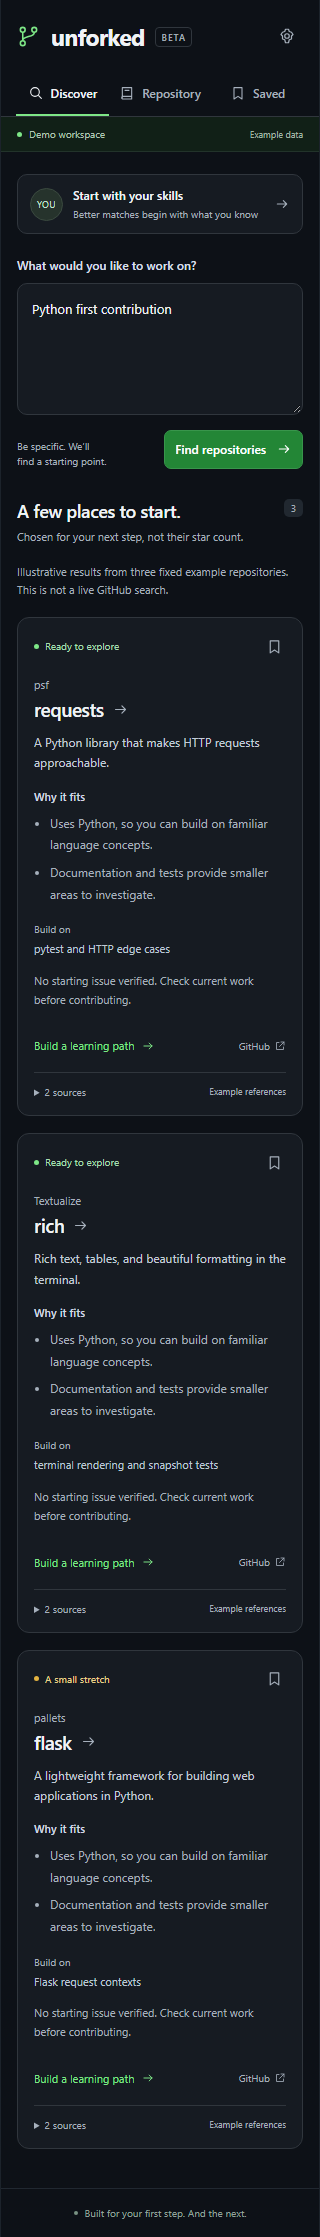
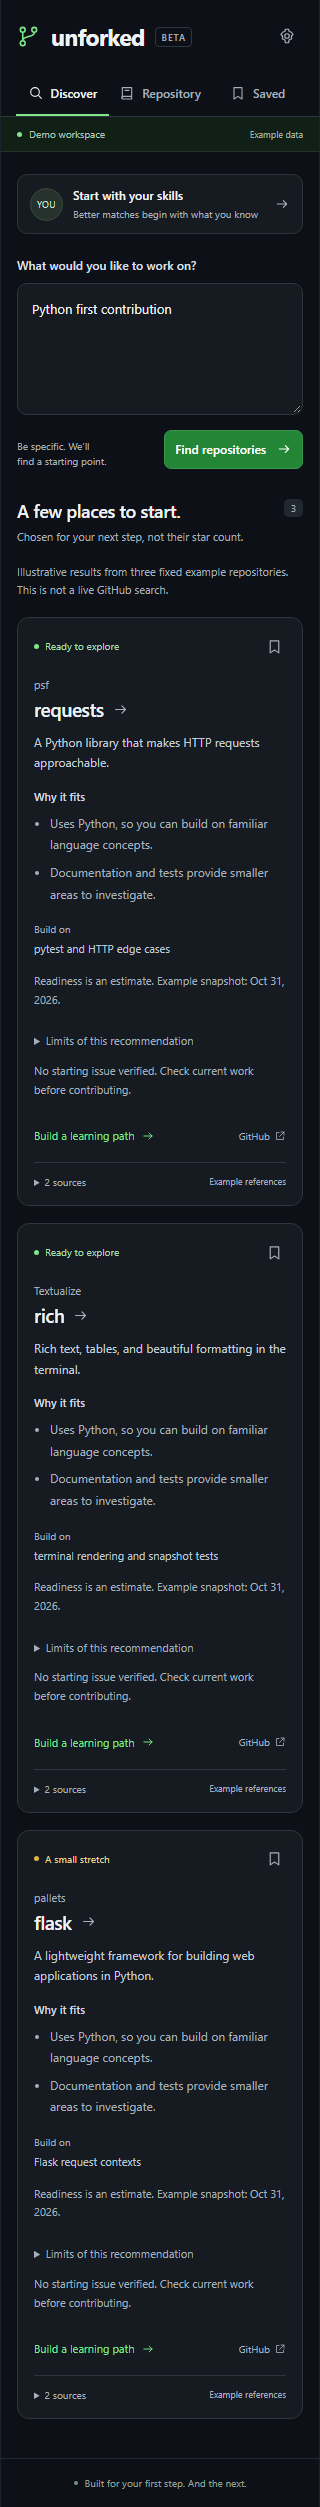
fix: preserve repository context and recheck actionable issues

diff --git a/apps/extension/entrypoints/sidepanel/App.tsx b/apps/extension/entrypoints/sidepanel/App.tsx
@@ -1,9 +1,10 @@
 import { useEffect, useRef, useState } from 'react';
-import { defaultProfile, parseRepoRef, RepoRefSchema, repoKey, repoUrl, type ContributorProfile, type Match, type RepoRef, type Source, type ApiResponse, type Summary, type SearchResult, type LearningPath, type RepoAnswer } from '@unforked/contracts';
+import { defaultProfile, parseRepoRef, repoKey, repoUrl, type ContributorProfile, type Match, type RepoRef, type Source, type ApiResponse, type Summary, type SearchResult, type LearningPath, type RepoAnswer, type IssueCheck } from '@unforked/contracts';
 import { localStore, type SavedMatch } from '../../lib/storage';
 import { RequestGate } from '../../lib/request-state';
 import { apiOrigin, callApi, ApiError } from '../../lib/api-client';
 import { signIn, signOut } from '../../lib/auth';
+import { createSelectionConsumer } from '../../lib/selection-context';
 
 type View = 'discover' | 'repository' | 'saved' | 'profile' | 'settings';
 type IconName = 'branch' | 'search' | 'repo' | 'bookmark' | 'settings' | 'arrow' | 'circle' | 'back' | 'close' | 'check' | 'external';
@@ -21,13 +22,17 @@ function Sources({ sources, ids, demo }: { sources: Source[]; ids?: string[]; de
   return <details className="sources"><summary>{selected.length} source{selected.length === 1 ? '' : 's'} <span>{demo ? 'Example references' : 'Checked on GitHub'}</span></summary><ul>{selected.map(s => <li key={s.id}><a href={s.url} target="_blank" rel="noreferrer">{s.label}<Icon name="external" size={12}/></a></li>)}</ul></details>;
 }
 const readyLabels = { ready_now: 'Ready to explore', small_stretch: 'A small stretch', learn_first: 'Learn first' };
-function RepoCard({ card, saved, sources, demo, onSave, onLearn, onExplain }: { card: Match; saved: boolean; sources: Source[]; demo: boolean; onSave: () => void; onLearn: () => void; onExplain: () => void }) {
+function RepoCard({ card, saved, sources, demo, onSave, onLearn, onExplain, onCheckIssue, issueCheck }: { card: Match; saved: boolean; sources: Source[]; demo: boolean; onSave: () => void; onLearn: () => void; onExplain: () => void; onCheckIssue: () => void; issueCheck: IssueCheck | null }) {
+  const checked = issueCheck && repoKey(issueCheck.repo) === repoKey(card.repo) && issueCheck.issueNumber === card.issueNumber ? issueCheck : null;
+  const date = Number.isFinite(Date.parse(card.checkedAt)) ? new Date(card.checkedAt).toLocaleDateString(undefined, { year: 'numeric', month: 'short', day: 'numeric' }) : 'date unavailable';
   return <article className="repo-card">
     <div className="card-top"><span className={`readiness ${card.readiness}`}><span className="dot"/>{readyLabels[card.readiness]}</span><button className={`icon-button ${saved ? 'is-saved' : ''}`} aria-label={`${saved ? 'Remove' : 'Save'} ${repoKey(card.repo)}`} title={saved ? 'Remove from saved' : 'Save repository'} onClick={onSave}><Icon name={saved ? 'check' : 'bookmark'} size={17}/></button></div>
     <p className="owner">{card.repo.owner}</p><h3><button className="title-button" onClick={onExplain}>{card.repo.name}<Icon name="arrow" size={17}/></button></h3><p className="description">{card.purpose}</p>
     <div className="fit"><h4>Why it fits</h4><ul>{card.fitReasons.map((reason, i) => <li key={i}>{reason}</li>)}</ul></div>
     {!!card.skillGaps.length && <p className="gap"><span>Build on</span> {card.skillGaps.join(' · ')}</p>}
-    {card.issueNumber ? <a className="issue-link" href={`${repoUrl(card.repo)}/issues/${card.issueNumber}`} target="_blank" rel="noreferrer">Explore issue #{card.issueNumber}<Icon name="external" size={13}/></a> : <p className="quiet-note">No starting issue verified. Check current work before contributing.</p>}
+    <p className="quiet-note">Readiness is an estimate. {demo ? 'Example snapshot' : 'Checked'}: {date}.</p>
+    {!!card.limitations.length && <details className="limitations"><summary>Limits of this recommendation</summary><ul>{card.limitations.map((limit, i) => <li key={i}>{limit}</li>)}</ul></details>}
+    {card.issueNumber ? <div className="issue-check"><button className="text-button" onClick={onCheckIssue}>Check issue #{card.issueNumber}<Icon name="arrow" size={13}/></button>{checked && <><p className="quiet-note">{checked.reasons.join(' ')} Checked {new Date(checked.checkedAt).toLocaleTimeString()}.</p>{checked.available && <a className="issue-link" href={`${repoUrl(card.repo)}/issues/${card.issueNumber}`} target="_blank" rel="noreferrer">Open issue #{card.issueNumber}<Icon name="external" size={13}/></a>}</>}</div> : <p className="quiet-note">No starting issue verified. Check current work before contributing.</p>}
     <div className="card-actions"><button className="text-button" onClick={onLearn} aria-label={`Learning path for ${repoKey(card.repo)}`}>Build a learning path<Icon name="arrow" size={14}/></button><a href={repoUrl(card.repo)} target="_blank" rel="noreferrer" className="subtle-link">GitHub<Icon name="external" size={12}/></a></div>
     <Sources sources={sources} ids={card.sourceIds} demo={demo}/>
   </article>;
@@ -45,13 +50,16 @@ function ProfileEditor({ profile, onSave, onCancel }: { profile: ContributorProf
   </form></section>;
 }
 export default function App() {
-  const [view, setView] = useState<View>('discover'); const viewRef = useRef(view); viewRef.current = view;
+  const [view, setView] = useState<View>('discover');
   const [profile, setProfile] = useState<ContributorProfile>(defaultProfile); const [saved, setSaved] = useState<SavedMatch[]>([]); const [query, setQuery] = useState(''); const [repoInput, setRepoInput] = useState(''); const [currentRepo, setCurrentRepo] = useState<RepoRef | null>(null);
   const [health, setHealth] = useState<'checking' | 'demo' | 'live' | 'offline'>('checking'); const [busy, setBusy] = useState<string | null>(null); const [error, setError] = useState<{ message: string; code?: string; retry?: number } | null>(null);
   const [search, setSearch] = useState<ApiResponse<SearchResult> | null>(null); const [summary, setSummary] = useState<ApiResponse<Summary> | null>(null); const [learning, setLearning] = useState<ApiResponse<LearningPath> | null>(null); const [answer, setAnswer] = useState<ApiResponse<RepoAnswer> | null>(null); const [question, setQuestion] = useState(''); const [notice, setNotice] = useState('');
+  const [issueCheck, setIssueCheck] = useState<IssueCheck | null>(null);
+  const activeAction = useRef('');
+  const selectionConsumer = useRef<ReturnType<typeof createSelectionConsumer> | null>(null);
   const gate = useRef(new RequestGate()); const lastAction = useRef<(() => void) | null>(null);
   const changeView = (next: View) => { gate.current.cancel(); setBusy(null); setError(null); setView(next); };
-  const clearRepoOutput = () => { gate.current.cancel(); setBusy(null); setSummary(null); setLearning(null); setAnswer(null); setQuestion(''); };
+  const clearRepoOutput = (cancelRequest = true) => { if (cancelRequest) { gate.current.cancel(); setBusy(null); } setSummary(null); setLearning(null); setAnswer(null); setQuestion(''); };
   const activateRepo = (repo: RepoRef) => { clearRepoOutput(); setCurrentRepo(repo); setRepoInput(repoKey(repo)); setView('repository'); setError(null); };
   useEffect(() => {
     void localStore.loadProfile().then(p => { if (p) setProfile(p); }).catch(() => setNotice('Profile could not be loaded. You can create a new one.'));
@@ -62,22 +70,34 @@ export default function App() {
   }, []);
   useEffect(() => {
     if (!globalThis.chrome?.tabs) return;
-    const context = async () => { const [tab] = await chrome.tabs.query({ active: true, currentWindow: true }); const repo = parseRepoRef(tab?.url || ''); setCurrentRepo(repo); if (viewRef.current === 'repository') { clearRepoOutput(); setRepoInput(repo ? repoKey(repo) : ''); } };
-    void context();
-    const onChanged = (changes: Record<string, chrome.storage.StorageChange>, area: string) => { if (area === 'session' && changes.selectionNonce) { void chrome.storage.session.get(['selectedRepo', 'selectedTab']).then(async data => { const [tab] = await chrome.tabs.query({ active: true, currentWindow: true }); const repo = RepoRefSchema.safeParse(data.selectedRepo); if (repo.success && tab?.id === data.selectedTab) explain(repo.data); }); } };
-    const onMessage = (message: any, sender: chrome.runtime.MessageSender) => { if (sender.id === chrome.runtime.id && message.type === 'UNFORKED_NAVIGATED') void context(); };
-    chrome.storage.onChanged.addListener(onChanged); chrome.tabs.onActivated.addListener(context); chrome.runtime.onMessage.addListener(onMessage);
-    void chrome.storage.session.get(['selectedRepo', 'selectedTab']).then(async data => { const [tab] = await chrome.tabs.query({ active: true, currentWindow: true }); const repo = RepoRefSchema.safeParse(data.selectedRepo); if (repo.success && tab?.id === data.selectedTab) explain(repo.data); });
-    return () => { chrome.storage.onChanged.removeListener(onChanged); chrome.tabs.onActivated.removeListener(context); chrome.runtime.onMessage.removeListener(onMessage); };
+    selectionConsumer.current ??= createSelectionConsumer({ get: keys => chrome.storage.session.get(keys), remove: keys => chrome.storage.session.remove(keys) });
+    let sequence = 0; let disposed = false; let previousContext = ''; let events = Promise.resolve();
+    const context = (updatedTab?: number, consume = false, force = false) => {
+      const event = ++sequence;
+      events = events.then(async () => {
+        const [tab] = await chrome.tabs.query({ active: true, currentWindow: true });
+        if (disposed || !tab || updatedTab !== undefined && tab.id !== updatedTab) return;
+        const identity = `${tab.id}:${tab.url || ''}`;
+        if (identity !== previousContext || force) { previousContext = identity; clearRepoOutput(activeAction.current !== 'search'); const repo = parseRepoRef(tab.url || ''); setCurrentRepo(repo); setRepoInput(repo ? repoKey(repo) : ''); }
+        if (consume) { const repo = await selectionConsumer.current!(tab); if (repo && !disposed && event === sequence) explain(repo); }
+      }).catch(() => {});
+    };
+    context(undefined, true);
+    const onChanged = (changes: Record<string, chrome.storage.StorageChange>, area: string) => { if (area === 'session' && changes.selectionNonce?.newValue) context(undefined, true); };
+    const onMessage = (message: any, sender: chrome.runtime.MessageSender) => { if (sender.id === chrome.runtime.id && message.type === 'UNFORKED_NAVIGATED') context(sender.tab?.id); };
+    const onActivated = () => context();
+    const onUpdated: Parameters<typeof chrome.tabs.onUpdated.addListener>[0] = (id, change) => { if (change.url || change.status === 'loading' || change.status === 'complete') context(id, false, change.status === 'loading'); };
+    chrome.storage.onChanged.addListener(onChanged); chrome.tabs.onActivated.addListener(onActivated); chrome.tabs.onUpdated.addListener(onUpdated); chrome.runtime.onMessage.addListener(onMessage);
+    return () => { disposed = true; chrome.storage.onChanged.removeListener(onChanged); chrome.tabs.onActivated.removeListener(onActivated); chrome.tabs.onUpdated.removeListener(onUpdated); chrome.runtime.onMessage.removeListener(onMessage); };
   }, []);
   async function run(action: string, payload: Record<string, unknown>) {
-    const token = gate.current.start(); setError(null); setBusy(action === 'search' ? 'Finding and checking repositories…' : action === 'learning-path' ? 'Connecting the next steps…' : action === 'repo-question' ? 'Reading the available evidence…' : 'Reading this repository…');
+    const token = gate.current.start(); activeAction.current = action; setError(null); setBusy(action === 'search' ? 'Finding and checking repositories…' : action === 'learning-path' ? 'Connecting the next steps…' : action === 'repo-question' ? 'Reading the available evidence…' : action === 'issue-check' ? 'Checking current issue availability…' : 'Reading this repository…');
     lastAction.current = () => void run(action, payload);
     try {
       const response = await callApi(action, { ...payload, requestId: token.id }, token.signal);
       if (!gate.current.isCurrent(token.id)) return;
       setHealth(response.demo ? 'demo' : 'live');
-      if (action === 'search') setSearch(response); else if (action === 'summary') setSummary(response); else if (action === 'learning-path') setLearning(response); else setAnswer(response);
+      if (action === 'search') { setSearch(response); setIssueCheck(null); } else if (action === 'summary') setSummary(response); else if (action === 'learning-path') setLearning(response); else if (action === 'issue-check') setIssueCheck(response.data); else setAnswer(response);
     } catch (e) { if (gate.current.isCurrent(token.id)) setError({ message: e instanceof Error ? e.message : 'The action could not finish.', code: e instanceof ApiError ? e.code : undefined, retry: e instanceof ApiError ? e.retryAfterSeconds : undefined }); }
     finally { if (gate.current.isCurrent(token.id)) setBusy(null); }
   }
@@ -102,14 +122,14 @@ export default function App() {
         <button className="profile-strip" onClick={() => changeView('profile')} aria-label="Your skills"><span><span className="profile-avatar">{profile.languages.length ? profile.languages[0].slice(0, 2).toUpperCase() : 'YOU'}</span><span><strong>{profile.languages.length ? profile.languages.join(' · ') : 'Start with your skills'}</strong><small>{profile.languages.length ? `${profile.availableHours} hours available · Edit your profile` : 'Better matches begin with what you know'}</small></span></span><Icon name="arrow" size={16}/></button>
         <form className="composer" onSubmit={e => { e.preventDefault(); if (query.trim()) void run('search', { request: query, profile }); }}><label htmlFor="goal">What would you like to work on?</label><textarea id="goal" aria-label="Contribution goal" rows={4} maxLength={2000} value={query} onChange={e => setQuery(e.target.value)} placeholder="I know Python and basic Git. I’d like a small developer-tools project where I can make my first contribution."/><div className="composer-bottom"><span>Be specific. We’ll find a starting point.</span><button type="submit" className="primary" disabled={!query.trim() || !!busy} aria-label="Find repositories">Find repositories<Icon name="arrow" size={16}/></button></div></form>
         {!search && <div className="examples"><p>Or start with an idea</p>{[{ label: 'My first Python contribution', text: 'I know Python functions, classes, and basic Git. Find my first contribution in a developer-tools project.' }, { label: 'A project for this weekend', text: 'I have four hours this weekend. Find a small contribution using my current skills.' }, { label: 'Learn by contributing', text: 'Find a project close to my current skills and give me a learning path for a useful contribution.' }].map(example => <button key={example.label} onClick={() => setQuery(example.text)}>{example.label}<Icon name="arrow" size={14}/></button>)}</div>}
-        {search && <section className="results"><div className="section-heading"><div><h2>{search.data.status === 'no_strong_match' ? 'A nearby place to begin.' : 'A few places to start.'}</h2><p>{search.data.status === 'no_strong_match' ? 'No strong match was found in this search. Consider these alternatives or refine your goal.' : 'Chosen for your next step, not their star count.'}</p></div><span className="count">{search.data.matches.length}</span></div>{search.data.searchLimitations.map((l, i) => <p className="quiet-note" key={i}>{l}</p>)}{cards.map(card => <RepoCard key={repoKey(card.repo)} card={card} saved={saved.some(s => repoKey(s.repo) === repoKey(card.repo))} sources={search.sources} demo={search.demo} onSave={() => void toggleSave(card)} onLearn={() => learn(card)} onExplain={() => explain(card.repo)}/>)}{!cards.length && <div className="empty-state"><Icon name="search" size={30}/><h3>No verified matches yet.</h3><p>Try a broader interest, or explicitly relax a constraint. A limited search does not mean the right project doesn’t exist.</p></div>}</section>}
+        {search && <section className="results"><div className="section-heading"><div><h2>{search.data.status === 'no_strong_match' ? 'A nearby place to begin.' : 'A few places to start.'}</h2><p>{search.data.status === 'no_strong_match' ? 'No strong match was found in this search. Consider these alternatives or refine your goal.' : 'Chosen for your next step, not their star count.'}</p></div><span className="count">{search.data.matches.length}</span></div>{search.data.searchLimitations.map((l, i) => <p className="quiet-note" key={i}>{l}</p>)}{cards.map(card => <RepoCard key={repoKey(card.repo)} card={card} saved={saved.some(s => repoKey(s.repo) === repoKey(card.repo))} sources={search.sources} demo={search.demo} onSave={() => void toggleSave(card)} onLearn={() => learn(card)} onExplain={() => explain(card.repo)} issueCheck={issueCheck} onCheckIssue={() => { setIssueCheck(null); void run('issue-check', { repo: card.repo, issueNumber: card.issueNumber }); }}/>)}{!cards.length && <div className="empty-state"><Icon name="search" size={30}/><h3>No verified matches yet.</h3><p>Try a broader interest, or explicitly relax a constraint. A limited search does not mean the right project doesn’t exist.</p></div>}</section>}
       </>}
       {view === 'repository' && <section className="repository-view"><h1>A little context.<br/><span>A clearer next step.</span></h1><p className="intro">Understand a project before you jump in.</p><form className="repo-form" onSubmit={e => { e.preventDefault(); submitRepo(); }}><label htmlFor="repo-input">GitHub repository</label><input id="repo-input" value={repoInput} onChange={e => { clearRepoOutput(); setRepoInput(e.target.value); }} placeholder="github.com/owner/repository"/><div className="form-row"><button className="primary" disabled={!!busy} type="submit">Explain repository<Icon name="arrow" size={16}/></button><button className="secondary" type="button" onClick={() => void circle()} aria-label="Circle a repository"><Icon name="circle" size={17}/>Circle</button></div></form>
         {!summary && !learning && !busy && <div className="empty-state compact"><Icon name="repo" size={30}/><h2>Go beyond the README.</h2><p>See what a project does, what it uses, and where you might begin.</p><button className="text-button" onClick={() => { setRepoInput('psf/requests'); explain({ owner: 'psf', name: 'requests' }); }}>Try Requests<Icon name="arrow" size={14}/></button></div>}
         {summary && <section className="summary-result"><div className="section-heading"><h2>About this repository</h2><span className="count">{summary.demo ? 'DEMO' : 'CHECKED'}</span></div><p className="summary-purpose">{summary.data.purpose}</p><div className="tags">{summary.data.stack.map(s => <span key={s}>{s}</span>)}</div><h3>Before you contribute</h3><ul className="prose-list">{summary.data.contributionNotes.map((n, i) => <li key={i}>{n}</li>)}</ul><details className="limitations"><summary>What we couldn’t verify</summary><ul>{summary.data.limitations.map((l, i) => <li key={i}>{l}</li>)}</ul></details><Sources sources={summary.sources} ids={summary.data.sourceIds} demo={summary.demo}/><form className="question-form" onSubmit={e => { e.preventDefault(); if (currentRepo && question.trim()) void run('repo-question', { repo: currentRepo, question }); }}><label htmlFor="repo-question">Ask about this repository</label><div className="question-input"><input id="repo-question" aria-label="Repository question" value={question} maxLength={1000} onChange={e => setQuestion(e.target.value)} placeholder="What should I learn first?"/><button className="icon-button" type="submit" disabled={!question.trim() || !!busy} aria-label="Ask about this repository"><Icon name="arrow"/></button></div></form>{answer && <div className="answer"><p>{answer.data.answer}</p><p className="quiet-note">{answer.data.limitation}</p><Sources sources={answer.sources} ids={answer.data.sourceIds} demo={answer.demo}/></div>}</section>}
         {learning && <section className="learning-result"><h2>Your next steps</h2><p className="intro">A path toward {currentRepo ? repoKey(currentRepo) : 'your next contribution'}.</p><div className="tags">{learning.data.gaps.map(g => <span key={g}>{g}</span>)}</div><ol className="learning-steps">{learning.data.steps.map((s, i) => <li key={i}><span className="step-number">{i + 1}</span><div><h3>{s.title}</h3><p>{s.practice}</p><p className="readiness-check"><Icon name="check" size={14}/>{s.readinessCheck}</p></div></li>)}</ol><Sources sources={learning.sources} ids={learning.data.sourceIds} demo={learning.demo}/></section>}
       </section>}
-      {view === 'saved' && <section><h1>A shortlist.<br/><span>Full of possibilities.</span></h1><p className="intro">Keep the projects you want to come back to.</p>{!saved.length ? <div className="empty-state"><Icon name="bookmark" size={30}/><h2>Something will catch your eye.</h2><p>Save a repository from your results and it will be here when you’re ready.</p><button className="primary" onClick={() => changeView('discover')}>Find a project<Icon name="arrow" size={16}/></button></div> : <><p className="quiet-note">Saved snapshots can become outdated. Open a repository to refresh its summary before choosing work.</p>{saved.map(card => <RepoCard key={repoKey(card.repo)} card={card} saved sources={card.savedSources} demo={card.demo} onSave={() => void toggleSave(card)} onLearn={() => learn(card)} onExplain={() => explain(card.repo)}/>)}</>}</section>}
+      {view === 'saved' && <section><h1>A shortlist.<br/><span>Full of possibilities.</span></h1><p className="intro">Keep the projects you want to come back to.</p>{!saved.length ? <div className="empty-state"><Icon name="bookmark" size={30}/><h2>Something will catch your eye.</h2><p>Save a repository from your results and it will be here when you’re ready.</p><button className="primary" onClick={() => changeView('discover')}>Find a project<Icon name="arrow" size={16}/></button></div> : <><p className="quiet-note">Saved snapshots can become outdated. Open a repository to refresh its summary before choosing work.</p>{saved.map(card => <RepoCard key={repoKey(card.repo)} card={card} saved sources={card.savedSources} demo={card.demo} onSave={() => void toggleSave(card)} onLearn={() => learn(card)} onExplain={() => explain(card.repo)} issueCheck={issueCheck} onCheckIssue={() => { setIssueCheck(null); void run('issue-check', { repo: card.repo, issueNumber: card.issueNumber }); }}/>)}</>}</section>}
     </main>
     {notice && <div className="notice" role="status"><Icon name="check" size={15}/><span>{notice}</span><button className="icon-button" aria-label="Dismiss notification" onClick={() => setNotice('')}><Icon name="close" size={14}/></button></div>}
     <footer className="app-footer"><span className="footer-dot"/>Built for your first step. And the next.</footer>

diff --git a/apps/api/src/github/evidence.ts b/apps/api/src/github/evidence.ts
@@ -6,7 +6,7 @@ export async function fetchEvidence(repo: RepoRef, client: GitHubClient): Promis
   if (metadata.private !== false || metadata.visibility === 'private') throw new AppError('INVALID_INPUT', 'Unforked currently supports public repositories only.');
   const sources: Source[] = [{ id: `${key}:repo`, label: 'Repository overview', url, excerpt: JSON.stringify({ description: metadata.description, topics: metadata.topics, archived: metadata.archived, pushedAt: metadata.pushed_at }) }];
   const limitations: string[] = []; let calls = 1;
-  const optional = async (path: string) => { if (++calls > 8) return null; try { return await client.get(path); } catch (e) { if (e instanceof AppError && e.code === 'NOT_FOUND') return null; if (e instanceof AppError && e.code === 'RATE_LIMITED') throw e; limitations.push('Some GitHub evidence could not be retrieved.'); return null; } };
+  const optional = async (path: string, refresh = false) => { if (++calls > 8) return null; try { return await client.get(path, refresh); } catch (e) { if (e instanceof AppError && e.code === 'NOT_FOUND') return null; if (e instanceof AppError && e.code === 'RATE_LIMITED') throw e; limitations.push('Some GitHub evidence could not be retrieved.'); return null; } };
   const document = async (path: string, id: string, label: string) => {
     const data = await optional(path); if (!data?.content || data.encoding !== 'base64') return false;
     try { const content = new TextDecoder().decode(Uint8Array.from(atob(data.content.replace(/\s/g, '')), c => c.charCodeAt(0))); sources.push({ id: `${key}:${id}`, label, url: id === 'readme' ? `${url}#readme` : `${url}/blob/${encodeURIComponent(metadata.default_branch || 'HEAD')}/${id === 'contributing-dotgithub' ? '.github/' : ''}CONTRIBUTING.md`, excerpt: content.slice(0, 12000) }); if (content.length > 12000) limitations.push(`${label} was shortened for this analysis.`); return true; } catch { return false; }
@@ -16,12 +16,12 @@ export async function fetchEvidence(repo: RepoRef, client: GitHubClient): Promis
   const languages = await optional(`${base}/languages`);
   const files = await optional(`${base}/contents`);
   if (Array.isArray(files)) sources.push({ id: `${key}:files`, label: 'Root files', url, excerpt: files.slice(0, 60).map(f => f.name).join(', ') });
-  const issueData = await optional(`${base}/issues?state=open&sort=updated&per_page=20`);
+  const issueData = await optional(`${base}/issues?state=open&sort=updated&per_page=20`, true);
   const issues: Issue[] = (Array.isArray(issueData) ? issueData : []).filter(i => !i.pull_request).map(i => ({ number: i.number, title: String(i.title).slice(0, 2000), body: String(i.body || '').slice(0, 4000), labels: (i.labels || []).map((l: any) => typeof l === 'string' ? l : l.name).slice(0, 20), assignees: i.assignees?.length || 0, updatedAt: i.updated_at || '', state: i.state === 'closed' ? 'closed' : 'open', competingWork: /(?:\/pull\/\d+|working on this|PR\s*#\d+)/i.test(i.body || '') ? 'observed' : 'not_checked' }));
   sources.push({ id: `${key}:issues`, label: 'Sampled open issues', url: `${url}/issues`, excerpt: JSON.stringify(issues).slice(0, 14000) });
   const pulls = await optional(`${base}/pulls?state=closed&sort=updated&per_page=10`);
   const mergedPulls = (Array.isArray(pulls) ? pulls : []).filter(p => p.merged_at).length;
   sources.push({ id: `${key}:pulls`, label: 'Sampled pull requests', url: `${url}/pulls`, excerpt: `${mergedPulls} merged among up to 10 recently updated closed PRs. This sample does not measure response time.` });
-  limitations.push('Issue comments and all competing pull requests were not exhaustively checked. Availability can change.');
+  limitations.push('Issue comments and all competing pull requests were not exhaustively checked. Availability can change.', 'Documentation and pull-request samples may be cached for up to one hour. Repository metadata and sampled issue state were checked for this action.');
   return EvidenceSchema.parse({ repo, description: metadata.description || '', languages: languages ? Object.keys(languages).slice(0, 20) : metadata.language ? [metadata.language] : [], topics: (metadata.topics || []).slice(0, 20), archived: !!metadata.archived, isPublic: true, updatedAt: metadata.pushed_at || '', checkedAt: new Date().toISOString(), sources, issues, mergedPulls, completeness: 'partial', limitations });
 }

diff --git a/tests/e2e/context.spec.ts b/tests/e2e/context.spec.ts
@@ -1,0 +1,38 @@
+import { expect, test } from '@playwright/test';
+test('full navigation while Discover is visible invalidates old repository results', async ({ page }) => {
+  await page.addInitScript(() => {
+    let active = { id: 1, url: 'https://github.com/psf/requests' };
+    const updated = new Set<(...args: any[]) => void>();
+    const activated = new Set<(...args: any[]) => void>();
+    const emptyEvent = { addListener() {}, removeListener() {} };
+    Object.assign((window as any).chrome || ((window as any).chrome = {}), { runtime: { id: 'test', onMessage: emptyEvent }, storage: { local: { get: async () => ({}), set: async () => {}, remove: async () => {} }, session: { get: async () => ({}), remove: async () => {} }, onChanged: emptyEvent }, tabs: { query: async () => [active], onActivated: { addListener: (f: any) => activated.add(f), removeListener: (f: any) => activated.delete(f) }, onUpdated: { addListener: (f: any) => updated.add(f), removeListener: (f: any) => updated.delete(f) } } });
+    (window as any).navigateFixture = (url: string, type = 'updated') => { active = { ...active, url }; if (type === 'updated') updated.forEach(fn => fn(1, { status: 'complete', url }, active)); else activated.forEach(fn => fn({ tabId: 1 })); };
+  });
+  await page.goto('/'); await page.getByRole('button', { name: 'Repository', exact: true }).click(); await page.getByLabel('GitHub repository').fill('psf/requests'); await page.getByRole('button', { name: 'Explain repository', exact: true }).click();
+  await expect(page.getByRole('heading', { name: 'About this repository' })).toBeVisible();
+  await page.getByRole('button', { name: 'Discover', exact: true }).click(); await page.evaluate(() => (window as any).navigateFixture('https://github.com/pallets/flask'));
+  await page.getByRole('button', { name: 'Repository', exact: true }).click();
+  await expect(page.getByRole('heading', { name: 'About this repository' })).toHaveCount(0);
+  await expect(page.getByLabel('GitHub repository')).toHaveValue('pallets/flask');
+  await page.evaluate(() => (window as any).navigateFixture('https://example.test'));
+  await expect(page.getByLabel('GitHub repository')).toHaveValue('');
+});
+test('recommendations display uncertainty and snapshot provenance', async ({ page }) => {
+  await page.goto('/'); await page.getByLabel('Contribution goal').fill('Python first contribution'); await page.getByRole('button', { name: 'Find repositories', exact: true }).click();
+  await expect(page.getByText('Readiness is an estimate.', { exact: false }).first()).toBeVisible();
+  await expect(page.getByText('Example snapshot', { exact: false }).first()).toBeVisible();
+  await page.getByText('Limits of this recommendation', { exact: false }).first().click();
+  await expect(page.getByText('Demo snapshot. Repository activity and issue availability have not been checked.').first()).toBeVisible();
+});
+test('suggested issue links require a fresh availability check', async ({ page }) => {
+  await page.route('**/v1/search', async route => {
+    const response = await route.fetch(); const body = await response.json(); body.data.matches[0].issueNumber = 1; await route.fulfill({ response, json: body });
+  });
+  await page.route('**/v1/issue-check', async route => {
+    const input = route.request().postDataJSON(); await route.fulfill({ json: { data: { repo: { owner: 'psf', name: 'requests' }, issueNumber: 1, available: false, reasons: ['This issue is already assigned.'], checkedAt: new Date().toISOString() }, demo: false, requestId: input.requestId, sources: [], checkedAt: new Date().toISOString() } });
+  });
+  await page.goto('/'); await page.getByLabel('Contribution goal').fill('Python'); await page.getByRole('button', { name: 'Find repositories', exact: true }).click();
+  await expect(page.locator('a[href="https://github.com/psf/requests/issues/1"]')).toHaveCount(0);
+  await page.getByRole('button', { name: 'Check issue #1' }).click(); await expect(page.getByText('This issue is already assigned.')).toBeVisible();
+  await expect(page.locator('a[href="https://github.com/psf/requests/issues/1"]')).toHaveCount(0);
+});

diff --git a/apps/api/src/index.ts b/apps/api/src/index.ts
@@ -11,6 +11,7 @@ import type { Env } from './env';
 import { exchangeCode, logout, oauthCallback, requireSession, startAuth } from './auth/security';
 import { finishUsage, reserveUsage } from './usage/limits';
 import { configuredCostBound } from './ai/budget';
+import { checkIssue } from './github/issue-check';
 export const app = new Hono<{ Bindings: Env }>();
 app.use('*', async (c, next) => {
   const origin = c.req.header('Origin'); const local = c.env.ENVIRONMENT === 'development';
@@ -31,6 +32,14 @@ app.post('/v1/:action', async c => {
   const input = RequestSchema.safeParse(await c.req.json().catch(() => null));
   if (!input.success) throw new AppError('INVALID_INPUT', 'Check the repository, request, or profile and try again.');
   const action = c.req.param('action'); const data = input.data;
+  if (action === 'issue-check') {
+    if (!data.repo || !data.issueNumber) throw new AppError('INVALID_INPUT', 'An issue number and repository are required.');
+    const demo = c.env.MODE !== 'live';
+    const local = c.env.ENVIRONMENT === 'development' && ['127.0.0.1', 'localhost'].includes(new URL(c.req.url).hostname);
+    const session = !demo && !local ? await requireSession(c.req.raw, c.env) : null;
+    const result = demo ? { repo: data.repo, issueNumber: data.issueNumber, available: false, reasons: ['Demo mode does not verify live issue availability. Switch to a live backend first.'], checkedAt: new Date().toISOString() } : await checkIssue(data.repo, data.issueNumber, new GitHubClient(session?.githubToken || c.env.GITHUB_TOKEN, fetch, c.req.raw.signal));
+    return c.json({ data: result, demo, requestId: data.requestId, sources: [], checkedAt: result.checkedAt });
+  }
   if (!['summary', 'search', 'learning-path', 'repo-question'].includes(action)) throw new AppError('NOT_FOUND', 'Unknown action.', 404);
   if (action === 'search' && !data.request || action !== 'search' && !data.repo || action === 'repo-question' && !data.question) throw new AppError('INVALID_INPUT', 'This action is missing a repository or question.');
   const demo = c.env.MODE !== 'live'; let result: unknown; let evidence: Evidence[];

diff --git a/apps/extension/lib/api-client.ts b/apps/extension/lib/api-client.ts
@@ -1,4 +1,4 @@
-import { AnswerSchema, LearningSchema, SearchResultSchema, SummarySchema, type ApiInput, type ApiResponse } from '@unforked/contracts';
+import { AnswerSchema, IssueCheckSchema, LearningSchema, SearchResultSchema, SummarySchema, type ApiInput, type ApiResponse } from '@unforked/contracts';
 import { z } from 'zod';
 import { SourceSchema } from '@unforked/contracts';
 export const apiOrigin = __API_ORIGIN__;
@@ -10,7 +10,7 @@ export async function callApi(action: string, input: ApiInput, signal: AbortSign
   catch (e) { if (signal.aborted) throw e; throw new ApiError('CONNECTION_FAILED', 'Cannot reach Unforked. Start the local API with npm run dev:api, then retry.'); }
   const body = await response.json().catch(() => null);
   if (!response.ok) throw new ApiError(body?.error?.code || 'SERVER_ERROR', body?.error?.userMessage || 'The action could not finish. Try again.', body?.error?.retryAfterSeconds);
-  const schema = action === 'search' ? SearchResultSchema : action === 'summary' ? SummarySchema : action === 'learning-path' ? LearningSchema : AnswerSchema;
+  const schema = action === 'search' ? SearchResultSchema : action === 'summary' ? SummarySchema : action === 'learning-path' ? LearningSchema : action === 'issue-check' ? IssueCheckSchema : AnswerSchema;
   const envelope = z.object({ data: schema, demo: z.boolean(), requestId: z.string(), sources: SourceSchema.array().max(80), checkedAt: z.string() }).safeParse(body);
   if (!envelope.success || envelope.data.requestId !== input.requestId) throw new ApiError('INVALID_RESPONSE', 'The response could not be verified. Please retry.');
   return envelope.data;

diff --git a/packages/contracts/src/index.ts b/packages/contracts/src/index.ts
@@ -25,7 +25,9 @@ export const LearningSchema = z.object({ gaps: items, steps: z.array(z.object({ 
 export type LearningPath = z.infer<typeof LearningSchema>;
 export const AnswerSchema = z.object({ answer: text, sourceIds: z.array(text).min(1).max(10), limitation: z.string().max(1000) });
 export type RepoAnswer = z.infer<typeof AnswerSchema>;
-export const RequestSchema = z.object({ requestId: z.string().uuid(), repo: RepoRefSchema.optional(), request: z.string().trim().min(1).max(2000).optional(), profile: ProfileSchema.optional(), question: z.string().trim().min(1).max(1000).optional(), match: MatchSchema.optional() });
+export const IssueCheckSchema = z.object({ repo: RepoRefSchema, issueNumber: z.number().int().positive(), available: z.boolean(), reasons: items, checkedAt: z.string() });
+export type IssueCheck = z.infer<typeof IssueCheckSchema>;
+export const RequestSchema = z.object({ requestId: z.string().uuid(), repo: RepoRefSchema.optional(), request: z.string().trim().min(1).max(2000).optional(), profile: ProfileSchema.optional(), question: z.string().trim().min(1).max(1000).optional(), match: MatchSchema.optional(), issueNumber: z.number().int().positive().optional() });
 export type ApiInput = z.infer<typeof RequestSchema>;
 export type ApiResponse<T> = { data: T; demo: boolean; requestId: string; sources: Source[]; checkedAt: string };
 export const repoKey = (repo: RepoRef) => `${repo.owner}/${repo.name}`.toLowerCase();

diff --git a/apps/extension/entrypoints/background.ts b/apps/extension/entrypoints/background.ts
@@ -13,7 +13,7 @@ export default defineBackground(() => {
     if (!repo) return;
     // Open synchronously in the user gesture, then persist context for a newly mounted panel.
     void chrome.sidePanel.open({ tabId: tab.id });
-    void chrome.storage.session.set({ selectedRepo: repo, selectedTab: tab.id, selectionNonce: crypto.randomUUID() });
+    void chrome.storage.session.set({ selectedRepo: repo, selectedTab: tab.id, selectedPageUrl: info.pageUrl || tab.url, selectionCreatedAt: Date.now(), selectionNonce: crypto.randomUUID() });
   });
   chrome.commands.onCommand.addListener(async command => {
     if (command !== 'circle-repository') return;
@@ -26,6 +26,6 @@ export default defineBackground(() => {
     if (sender.id !== chrome.runtime.id || !sender.tab?.id || !sender.tab.url?.startsWith('https://github.com/') || message.type !== 'UNFORKED_SELECTED') return;
     const repo = parseRepoRef(`${message.repo?.owner}/${message.repo?.name}`); if (!repo) return;
     void chrome.sidePanel.open({ tabId: sender.tab.id });
-    void chrome.storage.session.set({ selectedRepo: repo, selectedTab: sender.tab.id, selectionNonce: crypto.randomUUID() });
+    void chrome.storage.session.set({ selectedRepo: repo, selectedTab: sender.tab.id, selectedPageUrl: sender.tab.url, selectionCreatedAt: Date.now(), selectionNonce: crypto.randomUUID() });
   });
 });

diff --git a/apps/api/src/github/issue-check.ts b/apps/api/src/github/issue-check.ts
@@ -1,0 +1,12 @@
+import { AppError, type RepoRef, type IssueCheck } from '@unforked/contracts';
+import type { GitHubClient } from './client';
+export async function checkIssue(repo: RepoRef, number: number, client: GitHubClient): Promise<IssueCheck> {
+  const base = `/repos/${repo.owner}/${repo.name}`; const metadata = await client.get(base, true);
+  if (metadata.private !== false) throw new AppError('INVALID_INPUT', 'Only public GitHub issues can be checked.');
+  const issue = await client.get(`${base}/issues/${number}`, true); const reasons: string[] = [];
+  if (metadata.archived) reasons.push('This repository is archived.');
+  if (issue.state !== 'open' || issue.pull_request) reasons.push('This is not an open contribution issue.');
+  if (issue.assignees?.length || issue.assignee) reasons.push('This issue is already assigned.');
+  if (/(?:\/pull\/\d+|working on this|PR\s*#\d+)/i.test(issue.body || '')) reasons.push('The issue mentions work that may already be underway.');
+  return { repo, issueNumber: number, available: !reasons.length, reasons: reasons.length ? reasons : ['Currently open and unassigned. Comments and all competing PRs were not exhaustively checked; read the discussion before starting.'], checkedAt: new Date().toISOString() };
+}

diff --git a/tests/unit/selection-consume.test.ts b/tests/unit/selection-consume.test.ts
@@ -1,0 +1,14 @@
+import { expect, it } from 'vitest';
+import { createSelectionConsumer } from '../../apps/extension/lib/selection-context';
+function setup(url = 'https://github.com/psf/requests') {
+  let data: Record<string, unknown> = { selectedRepo: { owner: 'psf', name: 'requests' }, selectedTab: 1, selectedPageUrl: url, selectionNonce: 'once', selectionCreatedAt: Date.now() };
+  return createSelectionConsumer({ get: async () => data, remove: async () => { data = {}; } });
+}
+it('consumes a pending selection at most once, including concurrent listeners', async () => {
+  const consume = setup(); const tab = { id: 1, url: 'https://github.com/psf/requests' };
+  const results = await Promise.all([consume(tab), consume(tab)]); expect(results).toEqual([{ owner: 'psf', name: 'requests' }, null]);
+});
+it('discards a selection after the same tab navigates to another repository', async () => {
+  const consume = setup(); expect(await consume({ id: 1, url: 'https://github.com/pallets/flask' })).toBeNull();
+  expect(await consume({ id: 1, url: 'https://github.com/psf/requests' })).toBeNull();
+});

diff --git a/apps/extension/lib/selection-context.ts b/apps/extension/lib/selection-context.ts
@@ -1,0 +1,16 @@
+import { RepoRefSchema, type RepoRef } from '@unforked/contracts';
+interface SelectionStorage { get(keys: string[]): Promise<Record<string, unknown>>; remove(keys: string[]): Promise<void> }
+export function createSelectionConsumer(storage: SelectionStorage) {
+  let queue = Promise.resolve();
+  return (tab: { id?: number; url?: string }): Promise<RepoRef | null> => {
+    const result = queue.then(async () => {
+      const keys = ['selectedRepo', 'selectedTab', 'selectedPageUrl', 'selectionNonce', 'selectionCreatedAt'];
+      const data = await storage.get(keys);
+      if (typeof data.selectionNonce !== 'string' || data.selectedTab !== tab.id) return null;
+      await storage.remove(keys);
+      if (data.selectedPageUrl !== tab.url || typeof data.selectionCreatedAt !== 'number' || Date.now() - data.selectionCreatedAt > 30000) return null;
+      const repo = RepoRefSchema.safeParse(data.selectedRepo); return repo.success ? repo.data : null;
+    });
+    queue = result.then(() => {}, () => {}); return result;
+  };
+}

diff --git a/tests/integration/evidence.test.ts b/tests/integration/evidence.test.ts
@@ -40,3 +40,15 @@ it('uses conditional requests and the cached body on 304', async () => {
   });
   expect(await client.get('/repos/a/b')).toEqual({ ok: true }); expect(await client.get('/repos/a/b', true)).toEqual({ ok: true });
 });
+it('refreshes issue state even while public documentation is cached', async () => {
+  let checks = 0;
+  const client = new GitHubClient(undefined, async input => {
+    const path = new URL(String(input)).pathname;
+    if (path === '/repos/psf/requests') return Response.json(metadata);
+    if (path.endsWith('/issues')) { checks++; return Response.json(checks === 1 ? [{ number: 1, title: 'Fix test', body: '', labels: [], assignees: [], updated_at: '2026-10-31', state: 'open' }] : []); }
+    if (path.endsWith('/languages')) return Response.json({ Python: 1 });
+    return Response.json([]);
+  });
+  expect((await fetchEvidence(ref, client)).issues).toHaveLength(1);
+  expect((await fetchEvidence(ref, client)).issues).toHaveLength(0);
+});

diff --git a/apps/api/src/github/client.ts b/apps/api/src/github/client.ts
@@ -4,7 +4,7 @@ export class GitHubClient {
   remaining = 80;
   constructor(private token?: string, private fetcher: typeof fetch = fetch, private signal?: AbortSignal) {}
   async get(path: string, refresh = false): Promise<any> {
-    if (!/^\/(?:repos\/[\w-]+\/[\w.-]+(?:\/(?:readme|languages|contents(?:\/[\w./-]+)?|issues|pulls))?|search\/repositories)(?:\?[^#]*)?$/.test(path) || path.includes('..') || path.includes('\\')) throw new AppError('INVALID_INPUT', 'Unsupported GitHub resource.');
+    if (!/^\/(?:repos\/[\w-]+\/[\w.-]+(?:\/(?:readme|languages|contents(?:\/[\w./-]+)?|issues(?:\/\d+)?|pulls))?|search\/repositories)(?:\?[^#]*)?$/.test(path) || path.includes('..') || path.includes('\\')) throw new AppError('INVALID_INPUT', 'Unsupported GitHub resource.');
     // Authenticated caches are request-local: never share token-scoped response data.
     const store = this.token || this.fetcher !== fetch ? this.privateCache : cache;
     const cached = store.get(path);
